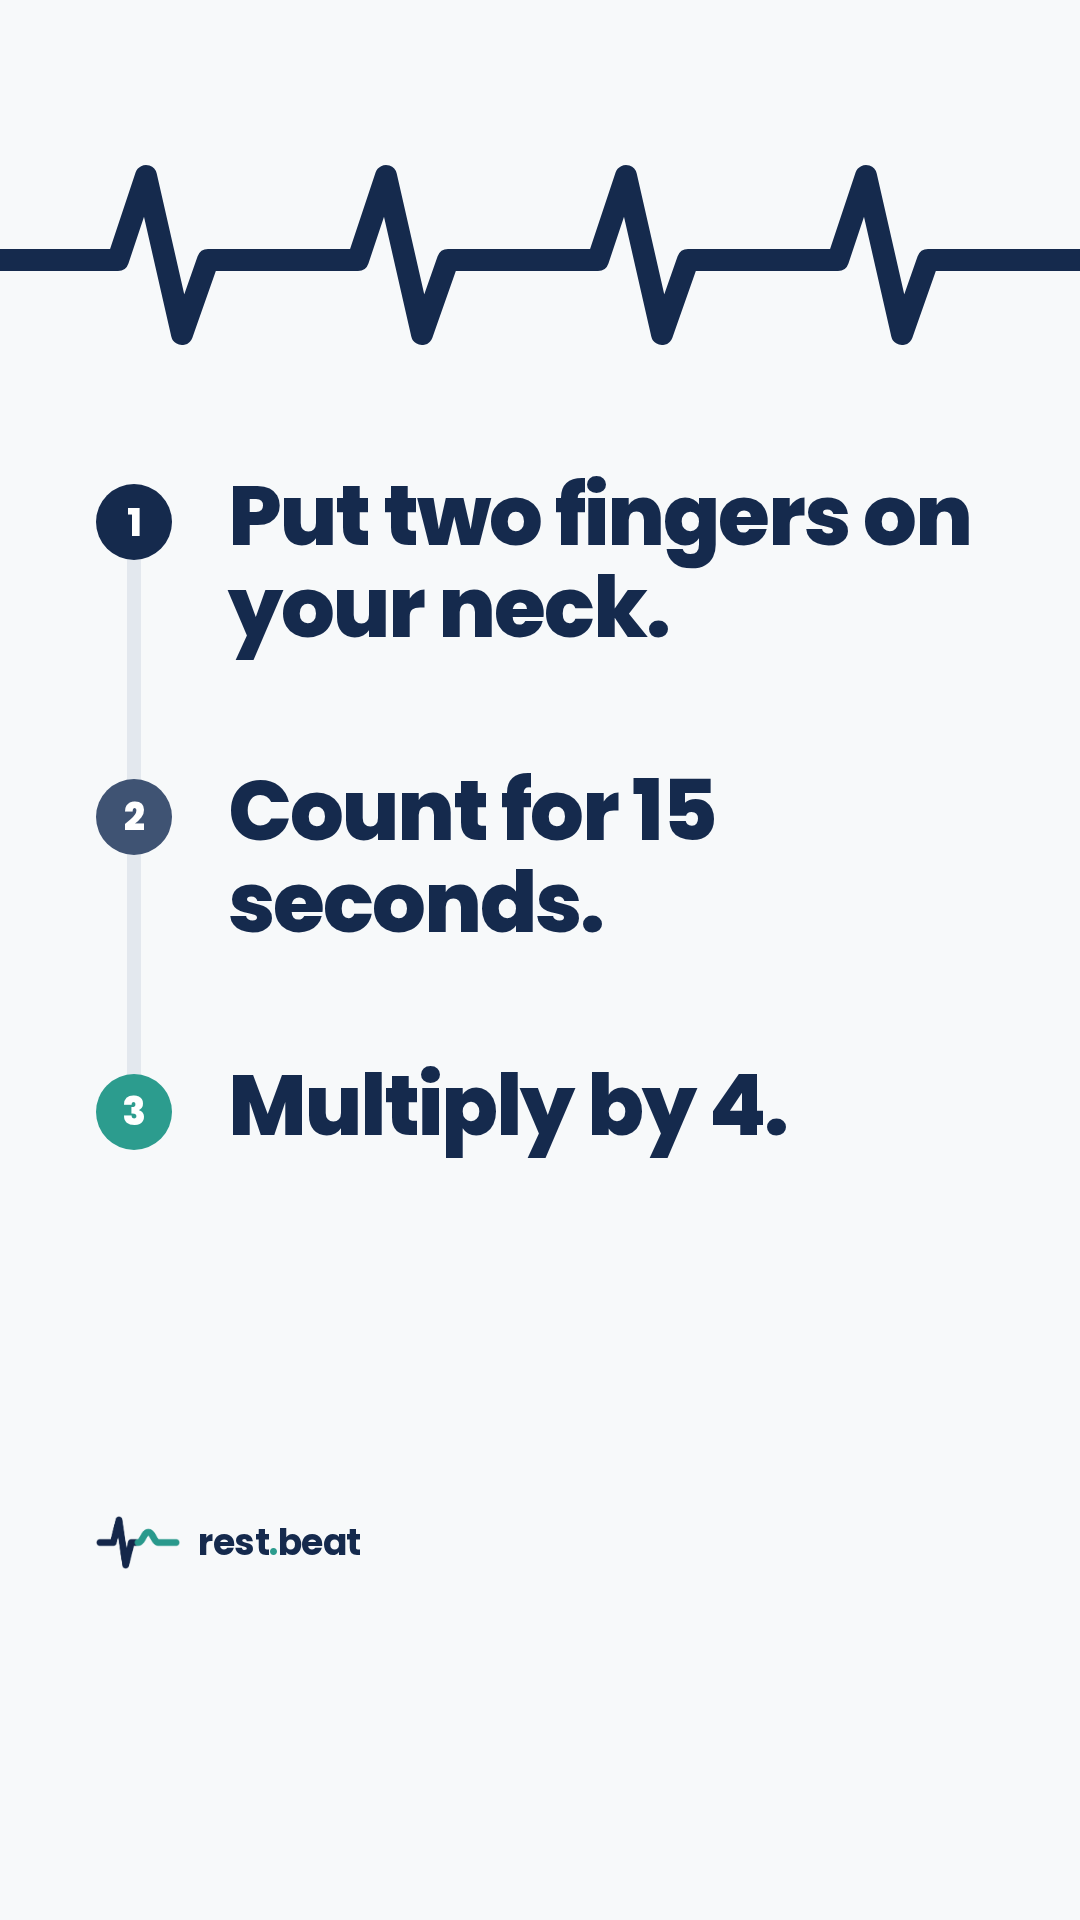
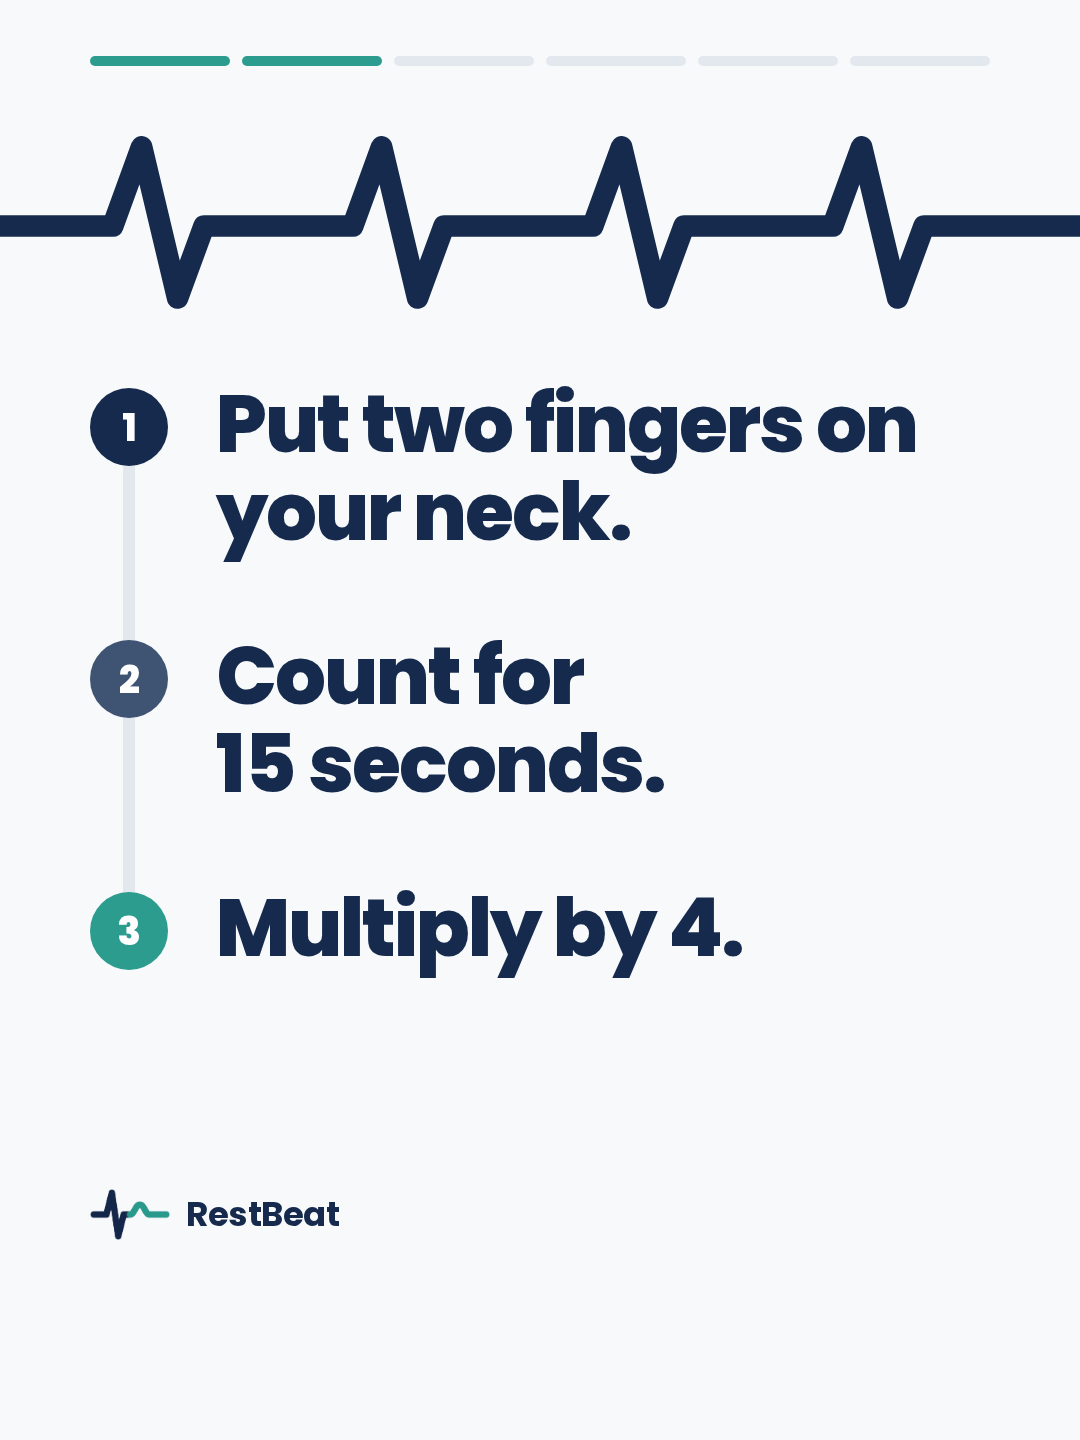
rest.beat slides: switch to 3:4, stronger dark hook slide, RestBeat label
Claude-Session: https://claude.ai/code/session_01DZSvGVKJCpUoP7km6ZMfvX

diff --git a/rest-beat-slides/src/slides.html b/rest-beat-slides/src/slides.html
@@ -16,149 +16,181 @@
     --navy-soft:#5B6B86;   /* secondary text */
     --navy-mid:#3F5373;    /* scale: 70 to 80 */
     --teal-mid:#6BB9AF;    /* scale: 60 to 70 */
+    --teal-light:#5FD0C0;  /* teal on navy */
     --line:#E3E8EE;
   }
   *{box-sizing:border-box;margin:0;padding:0}
   body{background:#ccd3db;font-family:Poppins,"Noto Color Emoji",sans-serif;color:var(--navy)}
 
-  .slide{position:relative;width:1080px;height:1920px;overflow:hidden;background:var(--bg);
+  /* 3:4 slide. TikTok letterboxes 3:4 photos inside the 9:16 screen, so only the
+     outer edges sit under the app UI. Text stays 100 px from the top and
+     200 px from the bottom; the brand row sits at the bottom of that zone. */
+  .slide{position:relative;width:1080px;height:1440px;overflow:hidden;background:var(--bg);
          margin:0 auto 40px}
-  /* Safe zone: 150 px from top, 350 px from bottom */
-  /* content stops 120 px above the brand row so the two never touch */
-  .safe{position:absolute;left:96px;right:96px;top:150px;bottom:470px;
+  .safe{position:absolute;left:90px;right:90px;top:130px;bottom:330px;
         display:flex;flex-direction:column}
+  .dark{background:var(--navy);color:#fff}
 
-  .brand{position:absolute;left:96px;bottom:350px;display:flex;align-items:center;gap:18px}
-  .brand img{width:84px;mix-blend-mode:multiply}
-  .brand span{font-weight:700;font-size:36px;letter-spacing:-.5px}
-  .brand span b{color:var(--teal);font-weight:700}
+  /* progress segments: tells people there is more to swipe */
+  .progress{position:absolute;top:56px;left:90px;right:90px;display:flex;gap:12px}
+  .progress i{flex:1;height:10px;border-radius:5px;background:var(--line)}
+  .progress i.on{background:var(--teal)}
+  .dark .progress i{background:rgba(255,255,255,.18)}
+  .dark .progress i.on{background:var(--teal-light)}
 
-  h1{font-weight:800;font-size:112px;line-height:1.08;letter-spacing:-3px}
-  h1 .t{color:var(--teal)}
-  .h2{font-weight:800;font-size:92px;line-height:1.12;letter-spacing:-2.5px}
-  .sub{font-weight:500;font-size:46px;line-height:1.35;color:var(--navy-soft)}
+  .brand{position:absolute;left:90px;bottom:200px;display:flex;align-items:center;gap:16px}
+  .brand img{width:80px;mix-blend-mode:multiply}
+  .brand svg{width:80px;height:auto}
+  .brand span{font-weight:700;font-size:34px;letter-spacing:-.5px}
 
-  .wave{position:absolute;left:0;width:1080px}
-  .wave path{fill:none;stroke-linecap:round;stroke-linejoin:round}
+  h1{font-weight:800;font-size:108px;line-height:1.06;letter-spacing:-3px}
+  .h2{font-weight:800;font-size:84px;line-height:1.12;letter-spacing:-2.5px}
+  .t{color:var(--teal)}
 
-  .pill{display:inline-flex;align-items:center;gap:18px;align-self:flex-start;
-        background:var(--teal);color:#fff;border-radius:999px;padding:24px 44px;
-        font-weight:700;font-size:46px}
-  .pill i{width:18px;height:18px;border-radius:50%;background:#fff;display:block}
+  .wave{display:block;width:100%;flex:none}
+  svg.line{flex:none}
+  .wave path,.line path{fill:none;stroke-linecap:round;stroke-linejoin:round}
 
-  /* slide 2: steps on a rounded line */
-  .steps{position:relative;display:flex;flex-direction:column;gap:110px;margin-top:40px}
-  .steps::before{content:"";position:absolute;left:31px;top:40px;bottom:40px;width:14px;border-radius:7px;
-                 background:var(--line)}
-  .step{position:relative;display:flex;gap:56px;align-items:flex-start}
-  .dot{flex:none;width:76px;height:76px;border-radius:50%;margin-top:14px;
-       display:flex;align-items:center;justify-content:center;
-       font-weight:800;font-size:38px;color:#fff}
-  .step p{font-weight:800;font-size:84px;line-height:1.1;letter-spacing:-2px}
+  /* 1: hook */
+  .chip{align-self:flex-start;display:inline-flex;align-items:center;gap:14px;
+        border:3px solid var(--teal-light);color:var(--teal-light);border-radius:999px;
+        padding:12px 30px;font-weight:700;font-size:32px;letter-spacing:1px;text-transform:uppercase}
+  .chip i{width:14px;height:14px;border-radius:50%;background:var(--teal-light)}
+  .hook h1{font-size:122px;line-height:1.02;letter-spacing:-4px;margin-top:40px}
+  .hook h1 .t{color:var(--teal-light)}
+  .cta{display:flex;align-items:center;justify-content:space-between;margin-top:auto}
+  .pill{display:inline-flex;align-items:center;background:var(--teal);color:#fff;border-radius:999px;
+        padding:26px 46px;font-weight:700;font-size:44px}
+  .swipe{width:104px;height:104px;border-radius:50%;background:#fff;display:flex;align-items:center;justify-content:center}
 
-  /* slide 3: scale */
-  .scale{display:flex;flex-direction:column;gap:78px}
-  .row .lbl{display:flex;align-items:baseline;justify-content:space-between;gap:24px}
-  .row .num{font-weight:800;font-size:84px;letter-spacing:-2px;line-height:1}
-  .row .txt{font-weight:600;font-size:40px;color:var(--navy-soft);margin-top:14px}
-  .bar{height:44px;border-radius:22px;margin-top:22px}
-  .row.hi .txt{color:var(--navy)}
+  /* 2: steps on a rounded line */
+  .steps{position:relative;display:flex;flex-direction:column;gap:76px;margin-top:70px}
+  .steps::before{content:"";position:absolute;left:33px;top:40px;bottom:40px;width:12px;border-radius:6px;background:var(--line)}
+  .step{position:relative;display:flex;gap:48px;align-items:flex-start}
+  .dot{flex:none;width:78px;height:78px;border-radius:50%;margin-top:8px;
+       display:flex;align-items:center;justify-content:center;font-weight:800;font-size:38px;color:#fff}
+  .step p{font-weight:800;font-size:80px;line-height:1.1;letter-spacing:-2px}
+
+  /* 3: scale */
+  .scale{display:flex;flex-direction:column;gap:46px}
+  .row .num{font-weight:800;font-size:80px;letter-spacing:-2px;line-height:1}
+  .row .txt{font-weight:600;font-size:38px;color:var(--navy-soft);margin-top:10px}
+  .row.hi .txt{color:var(--navy);font-weight:700}
+  .bar{height:38px;border-radius:19px;margin-top:18px}
+
+  /* 6: CTA card */
+  .card{background:var(--navy);color:#fff;border-radius:48px;padding:64px 60px 70px}
+  .card h1{font-size:96px}
 </style>
 </head>
 <body>
 
-<!-- 1: hook -->
-<section class="slide" id="s1">
+<!-- 1: hook (dark, high contrast so it stops the scroll) -->
+<section class="slide dark hook" id="s1">
+  <div class="progress"><i class="on"></i><i></i><i></i><i></i><i></i><i></i></div>
   <div class="safe">
-    <h1>What's your<br><span class="t">resting</span><br>heart rate?</h1>
-    <img src="logo-trim.png" alt="" style="width:720px;margin:150px 0 0 -22px;mix-blend-mode:multiply">
-    <div class="pill" style="margin-top:auto"><i></i>Check it in 15 seconds</div>
+    <div class="chip"><i></i>Quick test</div>
+    <h1>What's your<br><span class="t">resting<br>heart rate?</span></h1>
+    <!-- Logo redrawn in white + teal so it reads on navy; same shape as logo.png -->
+    <svg class="line" viewBox="-8 -2 166 104" style="width:500px;margin:20px 0 0 -12px">
+      <path d="M0 50 H26 L37 6 L50 94 L61 50 H74" stroke="#FFFFFF" stroke-width="13"/>
+      <path d="M74 50 C83 50 85 30 94 30 C103 30 105 50 114 50 H148" stroke="#5FD0C0" stroke-width="13"/>
+    </svg>
+    <div class="cta">
+      <div class="pill">Check it in 15 seconds</div>
+      <div class="swipe"><svg viewBox="0 0 40 40" width="46"><path d="M8 20 H31 M22 11 L31 20 L22 29" fill="none" stroke="#152A4D" stroke-width="5" stroke-linecap="round" stroke-linejoin="round"/></svg></div>
+    </div>
   </div>
-  <div class="brand"><img src="logo-trim.png" alt=""><span>rest<b>.</b>beat</span></div>
+  <div class="brand">
+    <svg class="line" viewBox="-8 -2 166 104"><path d="M0 50 H26 L37 6 L50 94 L61 50 H74" stroke="#FFFFFF" stroke-width="13"/><path d="M74 50 C83 50 85 30 94 30 C103 30 105 50 114 50 H148" stroke="#5FD0C0" stroke-width="13"/></svg>
+    <span>RestBeat</span>
+  </div>
 </section>
 
 <!-- 2: how to measure -->
 <section class="slide" id="s2">
-  <svg class="wave" style="top:150px" viewBox="0 0 1080 200" height="200">
-    <path stroke="#152A4D" stroke-width="22"
-      d="M-20 110 H90 L118 110 L146 26 L182 184 L208 110 H330 L358 110 L386 26 L422 184 L448 110 H570 L598 110 L626 26 L662 184 L688 110 H810 L838 110 L866 26 L902 184 L928 110 H1100"/>
-  </svg>
-  <div class="safe" style="top:430px">
+  <div class="progress"><i class="on"></i><i class="on"></i><i></i><i></i><i></i><i></i></div>
+  <div class="safe">
+    <svg class="wave" viewBox="0 0 900 150" style="width:calc(100% + 180px);margin-left:-90px">
+      <path stroke="#152A4D" stroke-width="18"
+        d="M-20 80 H70 L94 80 L118 14 L148 140 L170 80 H270 L294 80 L318 14 L348 140 L370 80 H470 L494 80 L518 14 L548 140 L570 80 H670 L694 80 L718 14 L748 140 L770 80 H920"/>
+    </svg>
     <div class="steps">
       <div class="step"><div class="dot" style="background:var(--navy)">1</div><p>Put two fingers on your neck.</p></div>
-      <div class="step"><div class="dot" style="background:var(--navy-mid)">2</div><p>Count for 15 seconds.</p></div>
+      <div class="step"><div class="dot" style="background:var(--navy-mid)">2</div><p>Count for 15&nbsp;seconds.</p></div>
       <div class="step"><div class="dot" style="background:var(--teal)">3</div><p>Multiply by&nbsp;4.</p></div>
     </div>
   </div>
-  <div class="brand"><img src="logo-trim.png" alt=""><span>rest<b>.</b>beat</span></div>
+  <div class="brand"><img src="logo-trim.png" alt=""><span>RestBeat</span></div>
 </section>
 
 <!-- 3: scale -->
 <section class="slide" id="s3">
+  <div class="progress"><i class="on"></i><i class="on"></i><i class="on"></i><i></i><i></i><i></i></div>
   <div class="safe" style="justify-content:center">
     <div class="scale">
       <div class="row">
-        <div class="num" style="color:var(--teal)">Under 60</div>
-        <div class="txt">Great shape</div>
-        <div class="bar" style="width:34%;background:var(--teal)"></div>
+        <div class="num t">Under 60</div><div class="txt">Great shape</div>
+        <div class="bar" style="width:32%;background:var(--teal)"></div>
       </div>
       <div class="row">
-        <div class="num" style="color:var(--teal)">60 to 70</div>
-        <div class="txt">Good</div>
+        <div class="num t">60 to 70</div><div class="txt">Good</div>
         <div class="bar" style="width:52%;background:var(--teal-mid)"></div>
       </div>
       <div class="row">
-        <div class="num">70 to 80</div>
-        <div class="txt">Room to improve</div>
-        <div class="bar" style="width:72%;background:var(--navy-mid)"></div>
+        <div class="num">70 to 80</div><div class="txt">Room to improve</div>
+        <div class="bar" style="width:74%;background:var(--navy-mid)"></div>
       </div>
       <div class="row hi">
-        <div class="num">Over 80</div>
-        <div class="txt">This account is for you</div>
+        <div class="num">Over 80</div><div class="txt">This account is for you</div>
         <div class="bar" style="width:100%;background:var(--navy)"></div>
       </div>
     </div>
   </div>
-  <div class="brand"><img src="logo-trim.png" alt=""><span>rest<b>.</b>beat</span></div>
+  <div class="brand"><img src="logo-trim.png" alt=""><span>RestBeat</span></div>
 </section>
 
 <!-- 4: why it matters -->
 <section class="slide" id="s4">
+  <div class="progress"><i class="on"></i><i class="on"></i><i class="on"></i><i class="on"></i><i></i><i></i></div>
   <div class="safe" style="justify-content:center">
-    <p class="h2">A <span style="color:var(--teal)">lower resting heart rate</span> is linked to better fitness and heart health</p>
+    <p class="h2">A <span class="t">lower resting</span><br><span class="t">heart rate</span> is linked<br>to better fitness<br>and heart health</p>
+    <svg class="wave" viewBox="0 0 900 150" style="width:calc(100% + 180px);margin:80px 0 0 -90px">
+      <path stroke="#152A4D" stroke-width="18" d="M-20 75 H120 L144 75 L170 12 L204 140 L228 75 H330 L350 75 L368 42 L388 110 L404 75 H450"/>
+      <path stroke="#2C9C8E" stroke-width="18" d="M450 75 C484 75 492 48 526 48 C560 48 568 75 602 75 C632 75 640 62 670 62 C700 62 708 75 738 75 H920"/>
+    </svg>
   </div>
-  <svg class="wave" style="top:1270px" viewBox="0 0 1080 200" height="200">
-    <path stroke="#152A4D" stroke-width="22" d="M-20 100 H150 L178 100 L210 24 L250 176 L278 100 H400 L424 100 L446 58 L470 140 L490 100 H540"/>
-    <path stroke="#2C9C8E" stroke-width="22" d="M540 100 C580 100 590 66 630 66 C670 66 680 100 720 100 C756 100 764 84 800 84 C836 84 844 100 880 100 H1100"/>
-  </svg>
-  <div class="brand"><img src="logo-trim.png" alt=""><span>rest<b>.</b>beat</span></div>
+  <div class="brand"><img src="logo-trim.png" alt=""><span>RestBeat</span></div>
 </section>
 
 <!-- 5: good news -->
 <section class="slide" id="s5">
-  <svg class="wave" style="top:150px" viewBox="0 0 1080 200" height="200">
-    <path stroke="#2C9C8E" stroke-width="22"
-      d="M-20 100 C40 100 60 50 120 50 C180 50 200 100 260 100 C320 100 340 60 400 60 C460 60 480 100 540 100 C600 100 620 70 680 70 C740 70 760 100 820 100 C870 100 890 82 940 82 C990 82 1010 100 1100 100"/>
-  </svg>
+  <div class="progress"><i class="on"></i><i class="on"></i><i class="on"></i><i class="on"></i><i class="on"></i><i></i></div>
   <div class="safe" style="justify-content:center">
-    <p class="sub" style="font-weight:700;color:var(--teal);font-size:52px;margin-bottom:28px">The good news:</p>
-    <h1 style="font-size:118px">you can<br>lower it<br>naturally</h1>
+    <p style="font-weight:700;color:var(--teal);font-size:54px;margin-bottom:20px">The good news:</p>
+    <h1 style="font-size:124px">you can<br>lower it<br><span class="t">naturally</span></h1>
+    <svg class="wave" viewBox="0 0 900 120" style="width:calc(100% + 180px);margin:90px 0 0 -90px">
+      <path stroke="#2C9C8E" stroke-width="18"
+        d="M-20 60 C30 60 50 22 100 22 C150 22 170 60 220 60 C270 60 290 30 340 30 C390 30 410 60 460 60 C510 60 530 40 580 40 C630 40 650 60 700 60 C740 60 760 50 800 50 C840 50 860 60 920 60"/>
+    </svg>
   </div>
-  <div class="brand"><img src="logo-trim.png" alt=""><span>rest<b>.</b>beat</span></div>
+  <div class="brand"><img src="logo-trim.png" alt=""><span>RestBeat</span></div>
 </section>
 
 <!-- 6: CTA -->
 <section class="slide" id="s6">
+  <div class="progress"><i class="on"></i><i class="on"></i><i class="on"></i><i class="on"></i><i class="on"></i><i class="on"></i></div>
   <div class="safe" style="justify-content:center">
-    <h1 style="font-size:104px">Comment<br><span style="white-space:nowrap">your number 👇</span></h1>
-    <svg viewBox="0 0 900 120" width="888" height="118" style="margin:90px 0 90px -10px">
-      <path fill="none" stroke="#2C9C8E" stroke-width="22" stroke-linecap="round"
-        d="M16 60 H300 C340 60 350 34 390 34 C430 34 440 60 480 60 H850"/>
-      <circle cx="862" cy="60" r="22" fill="#2C9C8E"/>
-    </svg>
-    <p class="sub" style="font-size:54px;color:var(--navy);font-weight:600">Follow <span style="color:var(--teal);font-weight:800">@rest.beat</span><br>for simple tips</p>
+    <div class="card">
+      <h1>Comment<br><span style="white-space:nowrap">your number 👇</span></h1>
+      <svg class="line" viewBox="0 0 900 80" style="width:100%;margin-top:56px">
+        <path stroke="#5FD0C0" stroke-width="16" d="M10 40 H300 C336 40 346 18 382 18 C418 18 428 40 464 40 H860"/>
+        <circle cx="872" cy="40" r="18" fill="#5FD0C0"/>
+      </svg>
+    </div>
+    <p style="font-weight:600;font-size:54px;line-height:1.3;margin-top:70px">Follow <span class="t" style="font-weight:800">@rest.beat</span><br>for simple tips</p>
   </div>
-  <div class="brand"><img src="logo-trim.png" alt=""><span>rest<b>.</b>beat</span></div>
+  <div class="brand"><img src="logo-trim.png" alt=""><span>RestBeat</span></div>
 </section>
 
 </body>

diff --git a/rest-beat-slides/src/export.js b/rest-beat-slides/src/export.js
@@ -1,10 +1,10 @@
-// Renders each <section class="slide"> in slides.html to ../slide-N.png (1080x1920).
+// Renders each <section class="slide"> in slides.html to ../slide-N.png (1080x1440).
 const { chromium } = require('/opt/node22/lib/node_modules/playwright');
 const path = require('path');
 
 (async () => {
   const browser = await chromium.launch();
-  const page = await browser.newPage({ viewport: { width: 1080, height: 1920 } });
+  const page = await browser.newPage({ viewport: { width: 1080, height: 1440 } });
   await page.goto('file://' + path.join(__dirname, 'slides.html'), { waitUntil: 'networkidle' });
   await page.evaluate(() => document.fonts.ready);
   const slides = await page.$$('section.slide');
